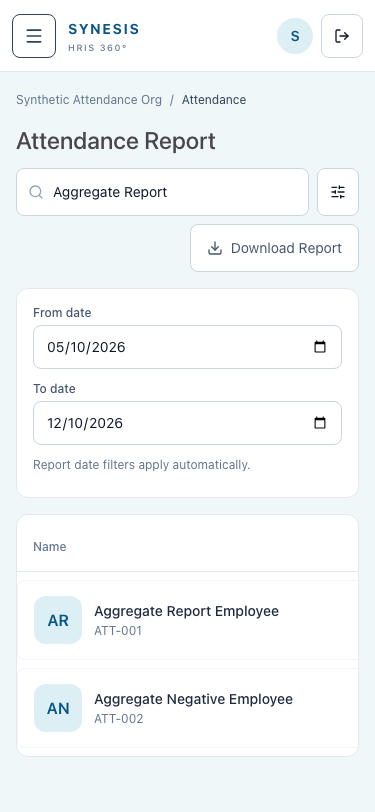
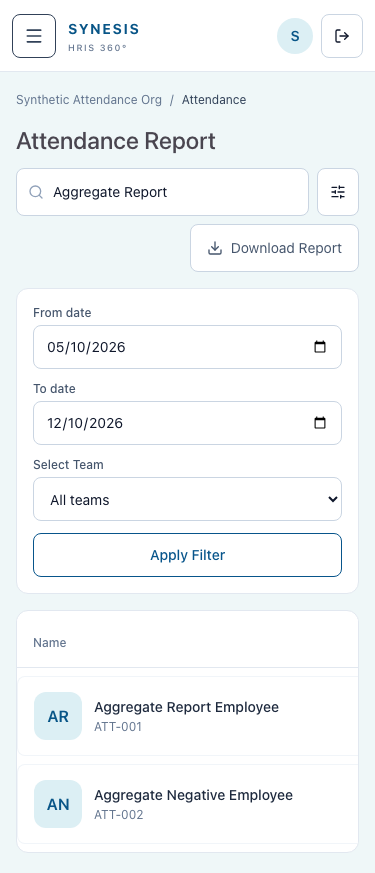
feat: add Figma attendance team filtering

diff --git a/src/live/LiveHrisWorkspace.tsx b/src/live/LiveHrisWorkspace.tsx
@@ -315,6 +315,8 @@ function AttendanceReport({ tenantId, canView, canReport, canManage }: { tenantI
   const [to, setTo] = useState(localIsoDate(new Date()));
   const [search, setSearch] = useState('');
   const [submittedSearch, setSubmittedSearch] = useState('');
+  const [selectedTeamFilter, setSelectedTeamFilter] = useState('');
+  const [appliedTeamFilter, setAppliedTeamFilter] = useState('');
   const [status, setStatus] = useState('all');
   const [statusOptions, setStatusOptions] = useState<string[]>([]);
   const [filtersOpen, setFiltersOpen] = useState(false);
@@ -377,6 +379,11 @@ function AttendanceReport({ tenantId, canView, canReport, canManage }: { tenantI
     return () => { requestSequence.current += 1; };
   }, [tenantId, from, to, submittedSearch, status, canReport, canView, canManage]);
 
+  useEffect(() => {
+    setSelectedTeamFilter('');
+    setAppliedTeamFilter('');
+  }, [tenantId, from, to, submittedSearch]);
+
   async function resolveCorrection(id: string, decision: 'approved' | 'rejected') {
     if (resolvingCorrectionId) return;
     if (decision === 'rejected' && !window.confirm('Reject this attendance correction?')) return;
@@ -394,21 +401,37 @@ function AttendanceReport({ tenantId, canView, canReport, canManage }: { tenantI
   }
 
   function exportReport() {
-    const currentRecords = dataTenantId === tenantId ? records : [];
-    if (!currentRecords.length) return;
+    const exportRows = filteredRows;
+    if (!exportRows.length) return;
     const fields = aggregateOnly
       ? ['employee_name', 'employee_number', 'designation_title', 'team_name', 'department_name', 'attendance_days', 'office_hours', 'working_hours', 'deviation']
       : ['full_name', 'employee_number', 'designation_title', 'department_name', 'attendance_date', 'check_in', 'check_out', 'work_mode', 'status', 'work_hours'];
     const labels = aggregateOnly
       ? ['Employee', 'Employee number', 'Designation', 'Team Name', 'Department', 'Attendance days', 'Office hours', 'Working hours', 'Deviation']
       : ['Employee', 'Employee number', 'Designation', 'Department', 'Date', 'Check in', 'Check out', 'Work location', 'Status', 'Working hours'];
-    downloadCsv(`attendance-report-${from}-${to}.csv`, labels, currentRecords.map(row => fields.map(field => row[field])));
+    downloadCsv(`attendance-report-${from}-${to}.csv`, labels, exportRows.map(row => fields.map(field => row[field])));
   }
 
   const currentTenantReady = dataTenantId === tenantId;
   const currentRecords = currentTenantReady ? records : [];
   const currentCorrections = currentTenantReady ? corrections : [];
-  const rows = currentRecords;
+  const teamOptions = useMemo(() => {
+    if (!aggregateOnly) return [];
+    const names = new Set(currentRecords.map(row => String(row.team_name ?? '').trim()).filter(Boolean));
+    const options = Array.from(names).sort((left, right) => left.localeCompare(right))
+      .map(name => ({ value: name, label: name }));
+    if (currentRecords.some(row => !String(row.team_name ?? '').trim())) {
+      options.push({ value: '__NO_TEAM__', label: 'Unassigned' });
+    }
+    return options;
+  }, [aggregateOnly, currentRecords]);
+  const filteredRows = useMemo(() => {
+    if (!aggregateOnly || !appliedTeamFilter) return currentRecords;
+    return currentRecords.filter(row => appliedTeamFilter === '__NO_TEAM__'
+      ? !String(row.team_name ?? '').trim()
+      : String(row.team_name ?? '').trim() === appliedTeamFilter);
+  }, [aggregateOnly, appliedTeamFilter, currentRecords]);
+  const rows = filteredRows;
 
   return <section aria-labelledby="attendance-report-heading" className="space-y-4">
     <div className={`flex flex-wrap justify-between gap-3 ${aggregateOnly ? 'items-center' : 'items-end'}`}>
@@ -423,7 +446,7 @@ function AttendanceReport({ tenantId, canView, canReport, canManage }: { tenantI
         <button type="button" aria-expanded={filtersOpen} aria-controls="attendance-filters" onClick={() => setFiltersOpen(value => !value)} className="inline-flex min-h-12 items-center gap-2 rounded-lg border border-slate-300 bg-white px-3 text-sm hover:bg-slate-50" aria-label="Filters">
           <SlidersHorizontal className="h-4 w-4" /><span className="sr-only">Filters</span>
         </button>
-        <button type="button" disabled={!currentRecords.length} onClick={exportReport} className="inline-flex min-h-12 items-center gap-2 rounded-lg border border-slate-300 bg-white px-4 text-sm text-slate-600 disabled:opacity-50">
+        <button type="button" disabled={!filteredRows.length} onClick={exportReport} className="inline-flex min-h-12 items-center gap-2 rounded-lg border border-slate-300 bg-white px-4 text-sm text-slate-600 disabled:opacity-50">
           <Download className="h-4 w-4" /> Download Report
         </button>
       </form>}
@@ -437,7 +460,7 @@ function AttendanceReport({ tenantId, canView, canReport, canManage }: { tenantI
       <button type="button" aria-expanded={filtersOpen} aria-controls="attendance-filters" onClick={() => setFiltersOpen(value => !value)} className="inline-flex min-h-11 items-center gap-2 rounded-lg border border-slate-300 bg-white px-3 text-sm hover:bg-slate-50">
         <SlidersHorizontal className="h-4 w-4" /> Filters
       </button>
-      <button type="button" disabled={!currentRecords.length} onClick={exportReport} className="inline-flex min-h-11 items-center gap-2 rounded-lg border border-slate-300 bg-white px-3 text-sm disabled:opacity-50">
+      <button type="button" disabled={!filteredRows.length} onClick={exportReport} className="inline-flex min-h-11 items-center gap-2 rounded-lg border border-slate-300 bg-white px-3 text-sm disabled:opacity-50">
         <Download className="h-4 w-4" /> Download report
       </button>
     </form>}
@@ -446,11 +469,20 @@ function AttendanceReport({ tenantId, canView, canReport, canManage }: { tenantI
         <input id="attendance-from" type="date" value={from} onChange={event => setFrom(event.target.value)} className="min-h-11 w-full rounded-lg border border-slate-300 px-3 text-sm" /></div>
       <div><label htmlFor="attendance-to" className="mb-1 block text-xs font-medium text-slate-600">To date</label>
         <input id="attendance-to" type="date" value={to} onChange={event => setTo(event.target.value)} className="min-h-11 w-full rounded-lg border border-slate-300 px-3 text-sm" /></div>
+      {aggregateOnly && <div><label htmlFor="attendance-team" className="mb-1 block text-xs font-medium text-slate-600">Select Team</label>
+        <select id="attendance-team" value={selectedTeamFilter} onChange={event => setSelectedTeamFilter(event.target.value)}
+          className="min-h-11 w-full rounded-lg border border-slate-300 bg-white px-3 text-sm">
+          <option value="">All teams</option>
+          {teamOptions.map(option => <option key={option.value} value={option.value}>{option.label}</option>)}
+        </select></div>}
       {showDetails && <div><label htmlFor="attendance-status" className="mb-1 block text-xs font-medium text-slate-600">Status</label>
         <select id="attendance-status" value={status} onChange={event => setStatus(event.target.value)} className="min-h-11 w-full rounded-lg border border-slate-300 px-3 text-sm">
           <option value="all">All visible statuses</option>{statusOptions.map(value => <option key={value} value={value}>{value}</option>)}
         </select></div>}
-      <p className="self-end pb-2 text-xs text-slate-500">{aggregateOnly ? 'Report date filters apply automatically.' : 'Date and status filters apply automatically.'}</p>
+      {aggregateOnly
+        ? <button type="button" onClick={() => setAppliedTeamFilter(selectedTeamFilter)}
+          className="min-h-11 self-end rounded-lg border border-[#08558B] bg-white px-4 text-sm font-medium text-[#08558B] hover:bg-[#EFF7F8]">Apply Filter</button>
+        : <p className="self-end pb-2 text-xs text-slate-500">Date and status filters apply automatically.</p>}
     </div>}
     {error && currentTenantReady && <StatusMessage error={error} onRetry={() => void load()} />}
     {actionMessage && currentTenantReady && <p role="status" className="rounded-lg border border-emerald-200 bg-emerald-50 p-3 text-sm text-emerald-900">{actionMessage}</p>}
@@ -488,7 +520,7 @@ function AttendanceReport({ tenantId, canView, canReport, canManage }: { tenantI
       </div>
     </section>}
     <div className="overflow-hidden rounded-xl border border-slate-200 bg-white">
-      {loading || !currentTenantReady ? <p role="status" className="p-5 text-sm">Loading attendance data…</p> : !rows.length ? <p className="p-5 text-sm text-slate-600">No attendance records were returned for this date range.</p> : <div role="region" aria-label="Scrollable attendance report table" tabIndex={0} className="overflow-x-auto focus-visible:outline-2 focus-visible:outline-[#08558B]">
+      {loading || !currentTenantReady ? <p role="status" className="p-5 text-sm">Loading attendance data…</p> : !rows.length ? <p className="p-5 text-sm text-slate-600">{aggregateOnly && appliedTeamFilter ? 'No attendance report rows match the selected team.' : 'No attendance records were returned for this date range.'}</p> : <div role="region" aria-label="Scrollable attendance report table" tabIndex={0} className="overflow-x-auto focus-visible:outline-2 focus-visible:outline-[#08558B]">
         <table aria-label={aggregateOnly ? 'Attendance summary by employee' : 'Attendance information'} className={`w-full border-separate text-left text-sm ${aggregateOnly ? 'min-w-[1383px] border-spacing-x-0 border-spacing-y-2' : 'min-w-[1160px] border-spacing-0'}`}>
           <thead className="bg-white text-xs text-slate-500"><tr>
             {(aggregateOnly ? ['Name', 'Designation', 'Team Name', 'Department', 'From date', 'To date', 'Office Hour', 'Work Hour', 'Deviation'] : ['Name', 'Designation', 'Department', 'Date', 'Work location', 'In time', 'Out time', 'Work hours', 'Status']).map(label => <th key={label} scope="col" className="border-b border-slate-200 px-4 py-4 font-medium">{label}</th>)}

diff --git a/tests/browser/attendance-information.spec.ts b/tests/browser/attendance-information.spec.ts
@@ -197,6 +197,25 @@ test('attendance information uses tenant-scoped detail rows and keeps filters, e
   await page.evaluate(() => window.scrollTo(0, 0));
   await page.screenshot({ path: path.resolve(process.cwd(), 'docs/evidence/attendance-report-desktop-20261012.png'), fullPage: true });
 
+  await page.getByRole('button', { name: 'Filters' }).click();
+  await page.getByLabel('Select Team').selectOption('Synthetic Design Team');
+  await page.getByRole('button', { name: 'Apply Filter', exact: true }).click();
+  await expect(positiveRow).toHaveCount(0);
+  await expect(negativeRow).toBeVisible();
+  const filteredDownload = page.waitForEvent('download');
+  await page.getByRole('button', { name: 'Download Report', exact: true }).click();
+  const filteredReport = await filteredDownload;
+  const filteredStream = await filteredReport.createReadStream();
+  let filteredCsv = '';
+  if (filteredStream) for await (const chunk of filteredStream) filteredCsv += chunk.toString();
+  expect(filteredCsv).toContain('Synthetic Design Team');
+  expect(filteredCsv).not.toContain('Synthetic Product Team');
+  await page.getByLabel('Select Team').selectOption('');
+  await page.getByRole('button', { name: 'Apply Filter', exact: true }).click();
+  await expect(positiveRow).toBeVisible();
+  await expect(negativeRow).toBeVisible();
+  await page.getByRole('button', { name: 'Filters' }).click();
+
   await page.getByLabel('Search employees').fill('Aggregate Report');
   await page.getByLabel('Search employees').press('Enter');
   await expect.poll(() => attendanceCalls.some(call => call.p_report === true && call.p_search === 'Aggregate Report')).toBe(true);
